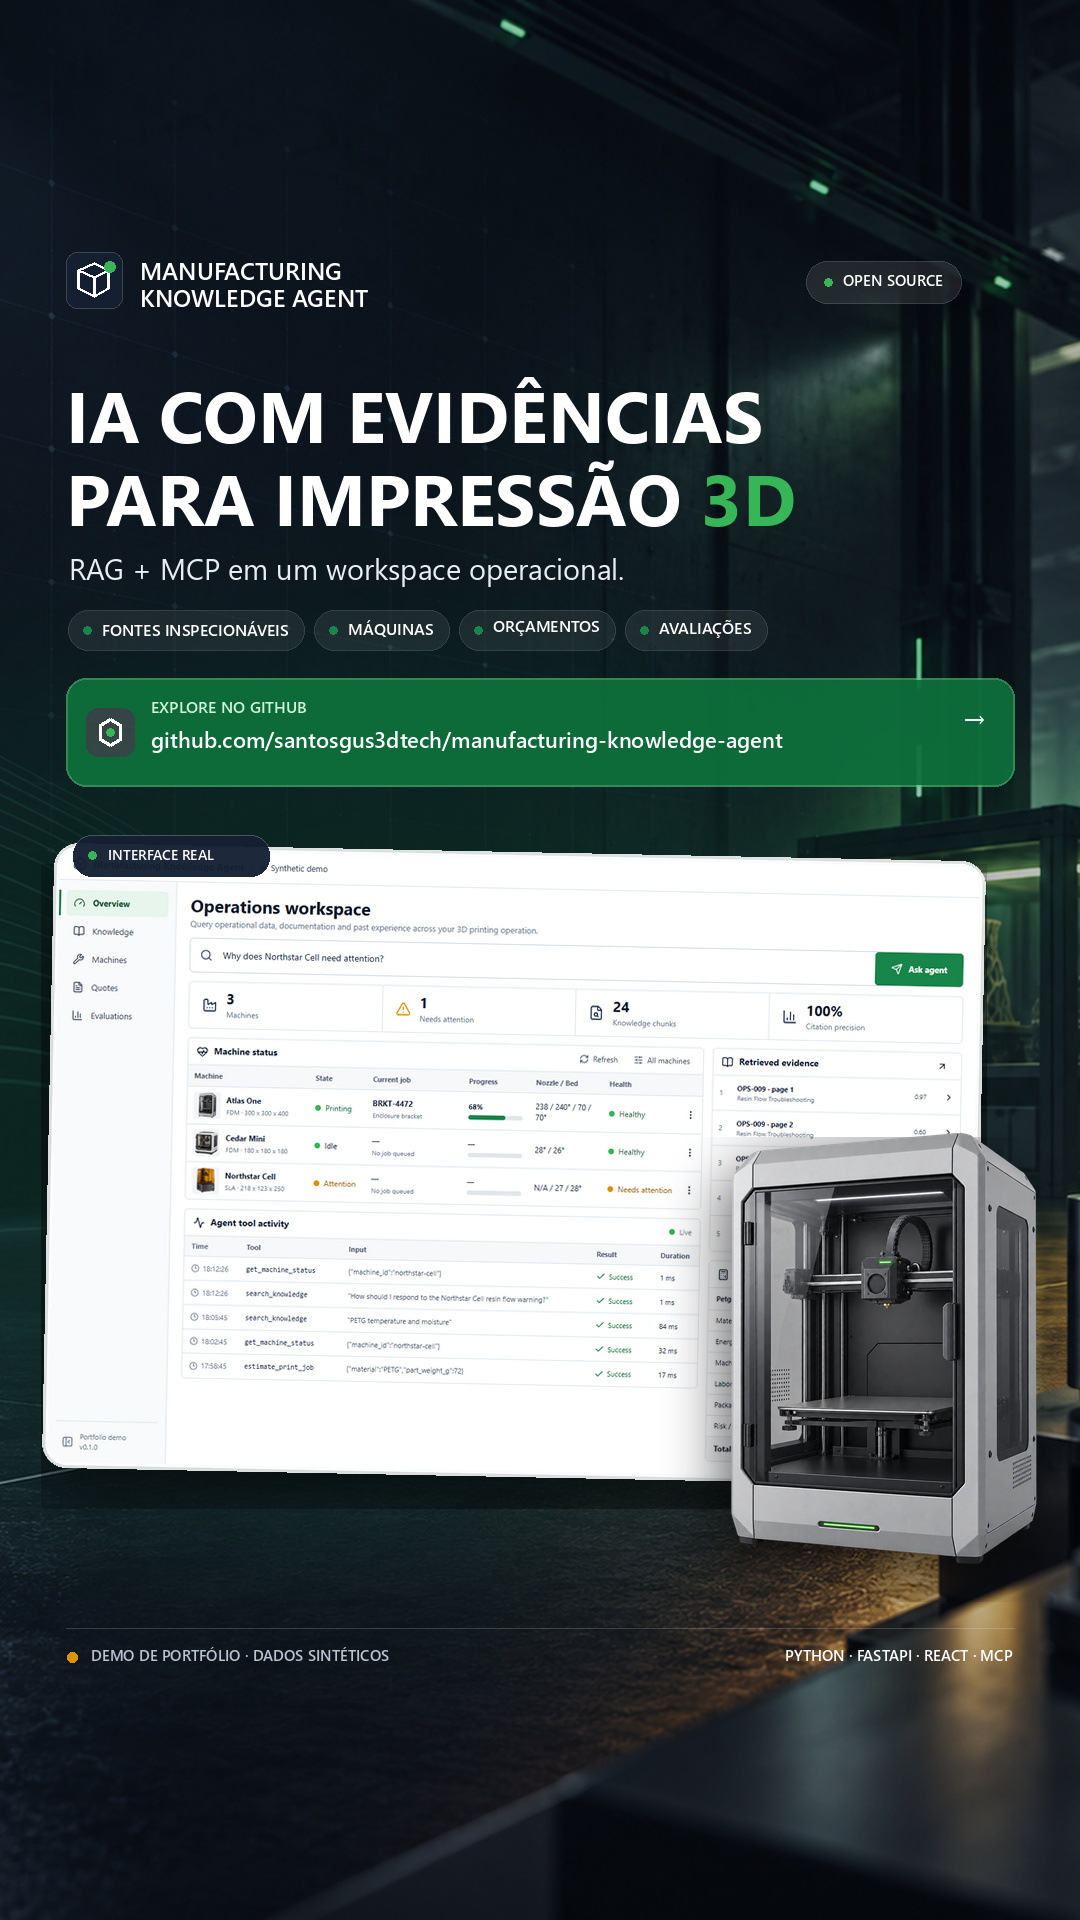
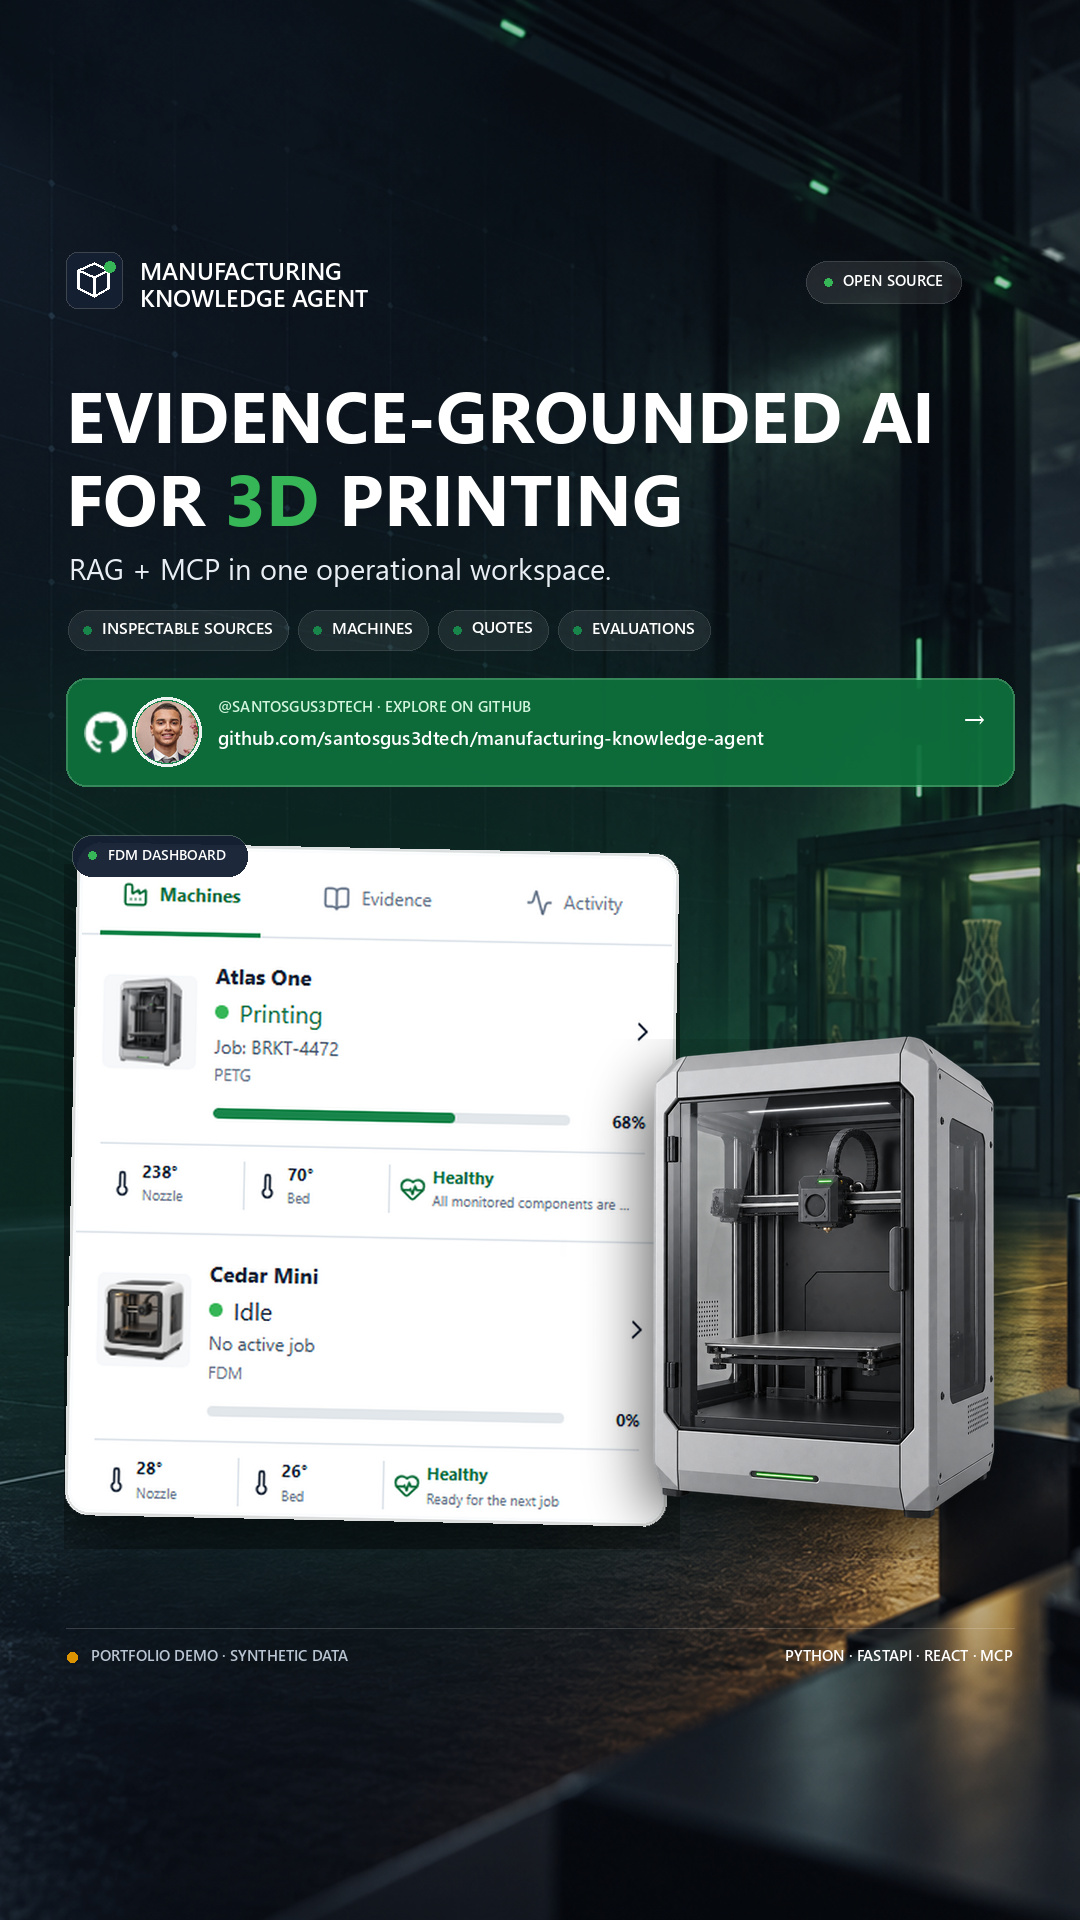
chore(auto-sync): save local changes 2026-10-08 09:30

Changed region(s): [[0.0306, 0.4375, 0.9778, 0.8438], [0.0611, 0.1875, 0.8556, 0.4062], [0.0917, 0.8438, 0.3056, 0.875]]

diff --git a/docs/social/build_instagram_story.py b/docs/social/build_instagram_story.py
@@ -16,7 +16,6 @@ from build_instagram_promo import (
     WHITE,
     cover,
     draw_brand_mark,
-    draw_repo_icon,
     font,
     paste_shadow,
     pill,
@@ -30,8 +29,10 @@ STORY_SIZE = (1080, 1920)
 
 def build_story() -> tuple[Path, Path]:
     background_path = SOCIAL_DIR / "assets" / "industrial-background.png"
-    screenshot_path = ROOT / "docs" / "screenshots" / "overview-desktop.png"
+    screenshot_path = ROOT / "docs" / "screenshots" / "overview-mobile.png"
     printer_path = ROOT / "frontend" / "public" / "machines" / "atlas-one.png"
+    avatar_path = SOCIAL_DIR / "assets" / "github-profile-santosgus3dtech.png"
+    github_mark_path = SOCIAL_DIR / "assets" / "github-mark-white.png"
 
     canvas = cover(Image.open(background_path).convert("RGB"), STORY_SIZE).convert("RGBA")
     canvas.alpha_composite(Image.new("RGBA", STORY_SIZE, (7, 15, 27, 60)))
@@ -62,21 +63,23 @@ def build_story() -> tuple[Path, Path]:
     )
 
     headline = font(FONT_BOLD, 72)
-    draw.text((66, 365), "IA COM EVIDÊNCIAS", font=headline, fill=WHITE)
-    draw.text((66, 448), "PARA IMPRESSÃO", font=headline, fill=WHITE)
-    prefix_width = draw.textlength("PARA IMPRESSÃO ", font=headline)
+    draw.text((66, 365), "EVIDENCE-GROUNDED AI", font=headline, fill=WHITE)
+    draw.text((66, 448), "FOR ", font=headline, fill=WHITE)
+    prefix_width = draw.textlength("FOR ", font=headline)
     draw.text((66 + prefix_width, 448), "3D", font=headline, fill=BRIGHT_GREEN)
+    highlight_width = draw.textlength("3D", font=headline)
+    draw.text((66 + prefix_width + highlight_width, 448), " PRINTING", font=headline, fill=WHITE)
 
     draw.text(
         (69, 548),
-        "RAG + MCP em um workspace operacional.",
+        "RAG + MCP in one operational workspace.",
         font=font(FONT_REGULAR, 29),
         fill=(232, 238, 244, 255),
     )
 
     feature_font = font(FONT_SEMIBOLD, 16)
     cursor_x = 68
-    for label in ("FONTES INSPECIONÁVEIS", "MÁQUINAS", "ORÇAMENTOS", "AVALIAÇÕES"):
+    for label in ("INSPECTABLE SOURCES", "MACHINES", "QUOTES", "EVALUATIONS"):
         width = pill(
             overlay,
             (cursor_x, 610),
@@ -92,14 +95,15 @@ def build_story() -> tuple[Path, Path]:
 
     canvas.alpha_composite(overlay)
 
-    # Preserve the verified product UI exactly; only scale, round, and rotate it.
+    # Preserve a verified crop that shows only the two FDM machines in the mobile UI.
     screenshot = Image.open(screenshot_path).convert("RGB")
-    screenshot = screenshot.resize((920, 613), Image.Resampling.LANCZOS)
+    screenshot = screenshot.crop((0, 328, 390, 765))
+    screenshot = screenshot.resize((590, 661), Image.Resampling.LANCZOS)
     screenshot = rounded_crop(screenshot, 19)
-    card = Image.new("RGBA", (932, 625), (0, 0, 0, 0))
+    card = Image.new("RGBA", (602, 673), (0, 0, 0, 0))
     card_draw = ImageDraw.Draw(card)
     card_draw.rounded_rectangle(
-        (0, 0, 931, 624),
+        (0, 0, 601, 672),
         radius=24,
         fill=(250, 252, 253, 255),
         outline=(255, 255, 255, 220),
@@ -107,31 +111,31 @@ def build_story() -> tuple[Path, Path]:
     )
     card.alpha_composite(screenshot, (6, 6))
     card = card.rotate(-1.15, resample=Image.Resampling.BICUBIC, expand=True)
-    paste_shadow(canvas, card, (41, 842), blur=30, opacity=170, offset=(0, 22))
+    paste_shadow(canvas, card, (64, 842), blur=30, opacity=170, offset=(0, 22))
 
     proof = Image.new("RGBA", STORY_SIZE, (0, 0, 0, 0))
     proof_draw = ImageDraw.Draw(proof)
     proof_draw.rounded_rectangle(
-        (72, 835, 270, 877),
+        (72, 835, 248, 877),
         radius=20,
         fill=(20, 32, 51, 245),
         outline=(255, 255, 255, 60),
         width=1,
     )
     proof_draw.ellipse((88, 851, 96, 859), fill=BRIGHT_GREEN)
-    proof_draw.text((108, 844), "INTERFACE REAL", font=font(FONT_SEMIBOLD, 14), fill=WHITE)
+    proof_draw.text((108, 844), "FDM DASHBOARD", font=font(FONT_SEMIBOLD, 14), fill=WHITE)
     canvas.alpha_composite(proof)
 
     printer = Image.open(printer_path).convert("RGBA")
     alpha_bbox = printer.getchannel("A").getbbox()
     if alpha_bbox:
         printer = printer.crop(alpha_bbox)
-    target_h = 465
+    target_h = 520
     printer = printer.resize(
         (round(printer.width * target_h / printer.height), target_h),
         Image.Resampling.LANCZOS,
     )
-    paste_shadow(canvas, printer, (648, 1118), blur=28, opacity=165, offset=(-8, 19))
+    paste_shadow(canvas, printer, (560, 1020), blur=28, opacity=165, offset=(-8, 19))
 
     # CTA and disclosure end above the reply/link controls at the bottom of Stories.
     cta = Image.new("RGBA", STORY_SIZE, (0, 0, 0, 0))
@@ -143,12 +147,31 @@ def build_story() -> tuple[Path, Path]:
         outline=(80, 202, 126, 155),
         width=2,
     )
-    draw_repo_icon(cta_draw, (86, 708))
-    cta_draw.text((151, 695), "EXPLORE NO GITHUB", font=font(FONT_SEMIBOLD, 16), fill=(208, 244, 220, 255))
+    github_mark = Image.open(github_mark_path).convert("RGBA").resize((44, 44), Image.Resampling.LANCZOS)
+    cta.alpha_composite(github_mark, (84, 710))
+
+    avatar = Image.open(avatar_path).convert("RGB").resize((62, 62), Image.Resampling.LANCZOS)
+    avatar_mask = Image.new("L", avatar.size, 0)
+    ImageDraw.Draw(avatar_mask).ellipse((0, 0, 61, 61), fill=255)
+    avatar_rgba = avatar.convert("RGBA")
+    avatar_rgba.putalpha(avatar_mask)
+    avatar_lockup = Image.new("RGBA", (70, 70), (0, 0, 0, 0))
+    avatar_draw = ImageDraw.Draw(avatar_lockup)
+    avatar_draw.ellipse((0, 0, 69, 69), fill=(255, 255, 255, 235))
+    avatar_draw.ellipse((3, 3, 66, 66), fill=(24, 134, 75, 255))
+    avatar_lockup.alpha_composite(avatar_rgba, (4, 4))
+    cta.alpha_composite(avatar_lockup, (132, 697))
+
     cta_draw.text(
-        (151, 724),
+        (218, 695),
+        "@SANTOSGUS3DTECH · EXPLORE ON GITHUB",
+        font=font(FONT_SEMIBOLD, 15),
+        fill=(208, 244, 220, 255),
+    )
+    cta_draw.text(
+        (218, 724),
         "github.com/santosgus3dtech/manufacturing-knowledge-agent",
-        font=font(FONT_SEMIBOLD, 22),
+        font=font(FONT_SEMIBOLD, 19),
         fill=WHITE,
     )
     cta_draw.text((974, 716), "→", font=font(FONT_SEMIBOLD, 28), fill=WHITE, anchor="mm")
@@ -156,7 +179,7 @@ def build_story() -> tuple[Path, Path]:
     cta_draw.ellipse((67, 1652, 77, 1662), fill=AMBER)
     cta_draw.text(
         (91, 1644),
-        "DEMO DE PORTFÓLIO · DADOS SINTÉTICOS",
+        "PORTFOLIO DEMO · SYNTHETIC DATA",
         font=font(FONT_SEMIBOLD, 15),
         fill=MUTED,
     )
